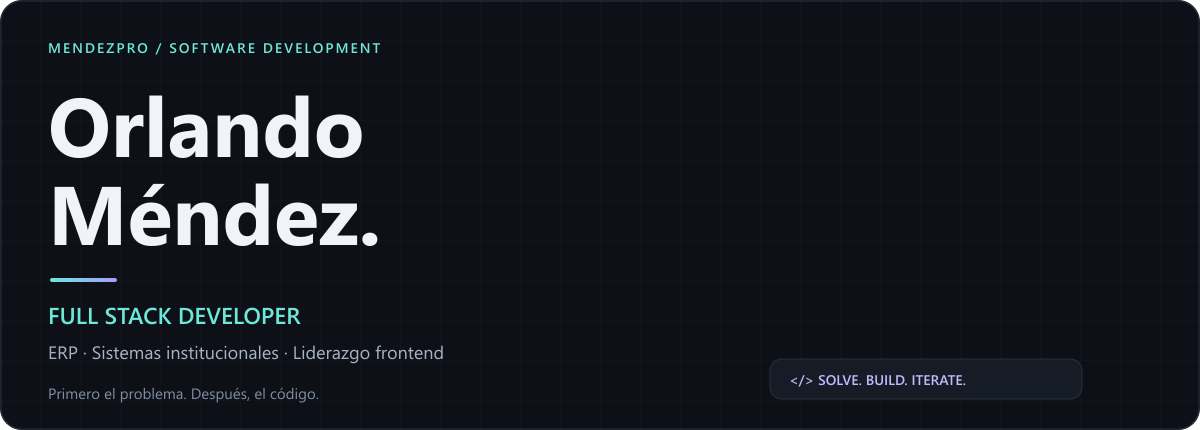
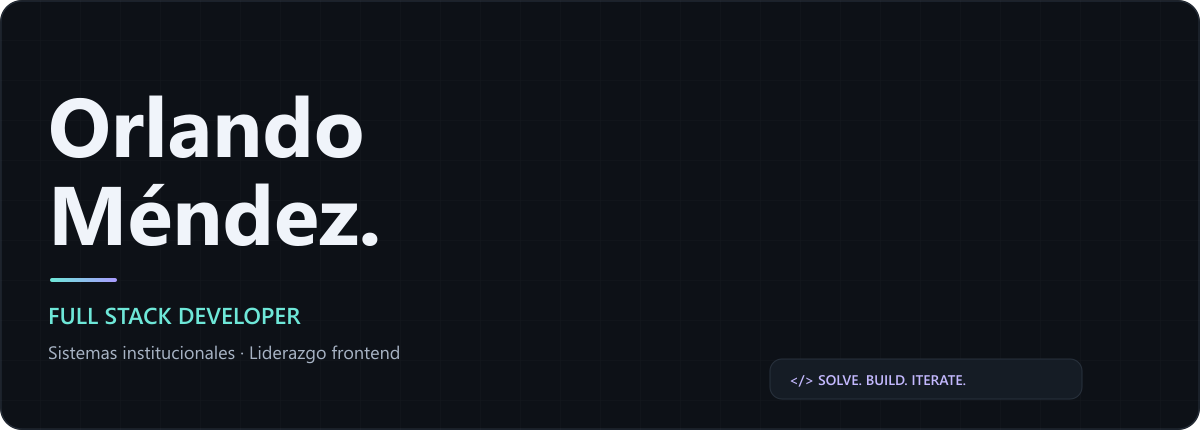
Simplify profile and feature NYCITO cafeteria system

Changed region(s): [[0.0308, 0.786, 0.37, 0.8465], [0.0308, 0.0907, 0.3083, 0.1209], [0.0308, 0.907, 0.2775, 0.9372]]

diff --git a/scripts/update_stats.py b/scripts/update_stats.py
@@ -1,55 +1,9 @@
-"""Refresh the profile SVG using only public GitHub API data; no dependencies."""
-import os, json, html, urllib.request
+"""Refresh cached GitHub Profile Trophy cards; keep the last image on failure."""
+import urllib.request
 from pathlib import Path
-from datetime import datetime, timezone
 
-USER = 'MendezPro'
-ROOT = Path(__file__).resolve().parents[1]
-
-def api(path):
-    headers = {'User-Agent': 'MendezPro-profile', 'Accept': 'application/vnd.github+json'}
-    if os.environ.get('GH_TOKEN'):
-        headers['Authorization'] = 'Bearer ' + os.environ['GH_TOKEN']
-    with urllib.request.urlopen(urllib.request.Request('https://api.github.com/' + path, headers=headers),timeout=30) as r:
-        return json.load(r)
-
-def txt(x,y,t,size=16,c='#E6EDF3',w=400):
-    return f'<text x="{x}" y="{y}" fill="{c}" font-family="Segoe UI,Arial,sans-serif" font-size="{size}" font-weight="{w}">{html.escape(str(t))}</text>'
-
-def box(x,y,w,h,stroke='#28313D'):
-    return f'<rect x="{x}" y="{y}" width="{w}" height="{h}" rx="13" fill="#151C25" stroke="{stroke}"/>'
-
-def main():
-    user=api('users/'+USER)
-    repos=[]
-    page=1
-    while True:
-        batch=api(f'users/{USER}/repos?type=owner&per_page=100&page={page}')
-        repos.extend(batch)
-        if len(batch)<100: break
-        page+=1
-    own=[r for r in repos if not r['fork']]
-    languages=set()
-    for repo in own:
-        languages.update(api('repos/'+USER+'/'+repo['name']+'/languages'))
-    stars=sum(r['stargazers_count'] for r in own)
-    followers=user['followers']
-    n=len(own)
-    body=txt(36,43,'03 / GITHUB PULSE',13,'#7F8EA3',600)
-    body+=txt(860,43,datetime.now(timezone.utc).strftime('ACTUALIZADO · %d %b %Y · UTC'),12,'#7F8EA3')
-    for i,(v,label) in enumerate([(n,'REPOS PROPIOS PÚBLICOS'),(followers,'SEGUIDORES'),(len(languages),'LENGUAJES EN REPOS'),(stars,'ESTRELLAS RECIBIDAS')]):
-        x=30+i*293
-        body+=box(x,66,263,118)+txt(x+22,124,v,42,'#6EE7D8' if i%2==0 else '#C4B9FF',600)+txt(x+22,158,label,11,'#A7B3C4',600)
-    body=body.replace('03 / GITHUB PULSE','GITHUB / PUBLIC ACTIVITY')
-    body+=txt(36,218,'Datos públicos · repositorios y estrellas sin forks · lenguajes detectados en código, no niveles de dominio',12,'#7F8EA3')
-    svg=f'<svg xmlns="http://www.w3.org/2000/svg" width="1200" height="244" viewBox="0 0 1200 244" role="img"><rect width="1200" height="244" rx="22" fill="#0D1117"/><rect x="1" y="1" width="1198" height="242" rx="21" fill="none" stroke="#28313D"/>{body}</svg>'
-    out=ROOT/'assets/github-pulse.svg'
-    out.parent.mkdir(exist_ok=True)
-    temporary=out.with_suffix('.tmp')
-    temporary.write_text(svg,encoding='utf-8')
-    temporary.replace(out)
-    print('Updated public profile statistics.')
-    refresh_trophies()
+USER='MendezPro'
+ROOT=Path(__file__).resolve().parents[1]
 
 def refresh_trophies():
     # Community mirror documented by ryo-ma/github-profile-trophy. No token is sent.
@@ -83,4 +37,4 @@ def refresh_trophies():
         # Keep the last valid image if the volunteer service is unavailable.
         print('Trophy refresh unavailable; keeping previous image: '+type(error).__name__)
 
-if __name__=='__main__': main()
+if __name__=='__main__': refresh_trophies()

diff --git a/README.md b/README.md
@@ -1,5 +1,5 @@
 <p align="center">
-  <img src="./assets/hero.gif" width="100%" alt="Orlando Méndez · Full Stack Developer. Teseracto animado mediante rotaciones en cuatro dimensiones. ERP, sistemas institucionales y liderazgo frontend." />
+  <img src="./assets/hero.gif" width="100%" alt="Orlando Méndez · Full Stack Developer. Teseracto animado mediante rotaciones en cuatro dimensiones. Sistemas institucionales y liderazgo frontend." />
 </p>
 
 <p align="center">
@@ -10,7 +10,7 @@
 
 <p align="center">
 Desarrollo software para el sector público y privado.<br />
-<b>ERP · Sistemas institucionales · Liderazgo de frontend y proyectos</b>
+<b>Sistemas institucionales · Liderazgo de frontend y proyectos</b>
 </p>
 
 ### Tecnologías con las que trabajo
@@ -48,8 +48,6 @@ Desarrollo software para el sector público y privado.<br />
   <a href="https://github.com/ryo-ma/github-profile-trophy"><img src="./assets/trophies.svg" width="100%" alt="GitHub Profile Trophy: categorías Commits, Pull Requests, Followers y Repositories para MendezPro, calculadas por el proyecto github-profile-trophy." /></a>
 </p>
 
-<img src="./assets/github-pulse.svg" width="100%" alt="Estadísticas verificadas de repositorios públicos propios, seguidores, lenguajes y estrellas recibidas. Actualización diaria mediante GitHub Actions." />
-
 <p align="center"><sub>Trofeos generados con GitHub Profile Trophy; son distintos de los Achievements oficiales. Las métricas públicas no representan todo mi trabajo en repositorios privados.</sub></p>
 
 ### Experiencia y proyectos
@@ -65,29 +63,9 @@ Desarrollo de sistemas para el sector público y seguridad pública en Puebla.
 </td>
 <td width="50%" valign="top">
 
-**ERP y sistemas de negocio** · `Experiencia profesional`
+**NYCITO App** · `Sistema para cafetería`
 
-Desarrollo full stack, liderazgo de frontend y coordinación de proyectos.
-
-</td>
-</tr>
-<tr>
-<td valign="top">
-
-**VozUrbana · Android / Wear OS**
-
-Repositorio público de desarrollo móvil en Kotlin.
-
-[Ver código ↗](https://github.com/MendezPro/VozUrbana-WearOS-Android)
-
-</td>
-<td valign="top">
-
-**APM Cinema**
-
-Proyecto académico de desarrollo web con HTML.
-
-[Ver código ↗](https://github.com/MendezPro/APM_CINEMA)
+Sistema integral para la operación y administración de una cafetería.
 
 </td>
 </tr>
@@ -102,6 +80,6 @@ Integro IA en mi flujo de desarrollo con criterio técnico y revisión del resul
 
 </details>
 
-<p align="center"><b>Primero resuelvo el problema. Después escribo el código.</b><br /><a href="mailto:soymendez56@gmail.com">soymendez56@gmail.com</a></p>
+<p align="center"><a href="mailto:soymendez56@gmail.com">soymendez56@gmail.com</a></p>
 
 <!-- Original technology logos: tandpfun/skill-icons (MIT). Trophy cards: ryo-ma/github-profile-trophy (MIT), via a community endpoint listed by the upstream project. Assets cached in this repository; see licenses/ and PROFILE-DESIGN.md. -->

diff --git a/PROFILE-DESIGN.md b/PROFILE-DESIGN.md
@@ -28,10 +28,10 @@ The SVG groups are stored in this repository so rendering does not depend on the
 
 ## Activity updates
 
-`scripts/update_stats.py` refreshes public GitHub statistics and caches trophy cards daily through `.github/workflows/profile-stats.yml`. Trophy categories are Commits, PullRequest, Followers and Repositories, selected from the upstream service without rewriting its scores or ranks.
+`scripts/update_stats.py` caches trophy cards daily through `.github/workflows/profile-stats.yml`. Trophy categories are Commits, PullRequest, Followers and Repositories, selected from the upstream service without rewriting its scores or ranks.
 
 The upstream primary trophy endpoint returned HTTP 402 during verification. The selected community endpoint, `https://trophy.ryglcloud.net`, is listed by the upstream project. Only the public username is sent to that endpoint; no GitHub credential is sent. Returned SVG is checked before replacing the previous file. If the service fails, the previous valid trophy image remains visible.
 
-Public metrics exclude private repository details. Stars mean received stars, and language counts are detected languages rather than skill ratings. The private experience and education are self-reported text preserved from the previous README.
+The custom public-activity statistics panel was removed from the profile. Experience and education are self-reported; NYCITO App is described only as an integrated cafeteria management system.
 
 The workflow uses GitHub's automatic repository token and needs permission to commit generated images. It does not change source code or private repositories.
